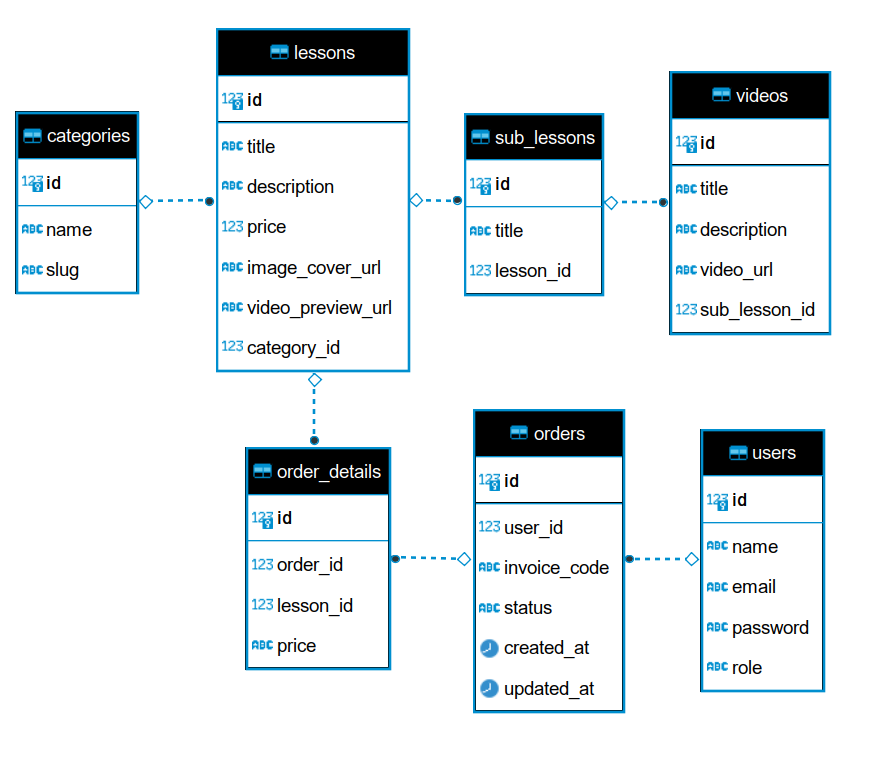
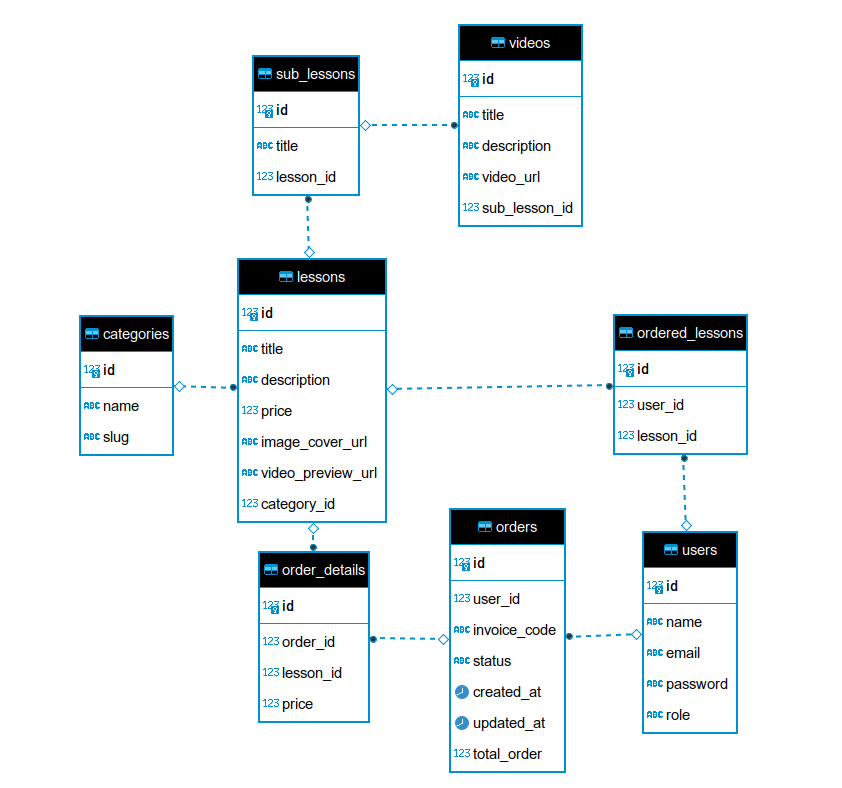
My Lesson + My Order

Changed region(s): [[0.0, 0.0301, 0.9572, 0.9922], [0.1235, 0.2405, 0.1853, 0.2706], [0.8646, 0.481, 0.8955, 0.5111]]

diff --git a/main.go b/main.go
@@ -14,6 +14,8 @@ import (
 var (
 	db *gorm.DB = config.SetupDatabaseConnection()
 
+	orderedLessonRepo repo.OrderedLessonRepository = repo.NewOrderedLessonRepo(db)
+
 	jwtService     service.JWTService        = service.NewJWTService()
 	userService    service.UserService       = service.NewUserService(userRepo)
 	authController controller.AuthController = controller.NewAuthController(authService, jwtService, userService)
@@ -27,7 +29,7 @@ var (
 	categoryController controller.CategoryController = controller.NewCategoryController(categoryService, jwtService)
 
 	lessonRepo       repo.LessonRepository       = repo.NewLessonRepo(db)
-	lessonService    service.LessonService       = service.NewLessonService(lessonRepo)
+	lessonService    service.LessonService       = service.NewLessonService(lessonRepo, orderedLessonRepo)
 	lessonController controller.LessonController = controller.NewLessonController(lessonService, jwtService)
 
 	subLessonRepo       repo.SubLessonRepository       = repo.NewSubLessonRepo(db)
@@ -40,7 +42,7 @@ var (
 
 	orderRepo       repo.OrderRepository       = repo.NewOrderRepo(db)
 	orderDetailRepo repo.OrderDetailRepository = repo.NewOrderDetailRepo(db)
-	orderService    service.OrderService       = service.NewOrderService(orderRepo, orderDetailRepo, lessonRepo)
+	orderService    service.OrderService       = service.NewOrderService(orderRepo, orderDetailRepo, orderedLessonRepo, lessonRepo)
 	orderController controller.OrderController = controller.NewOrderController(orderService, jwtService)
 )
 
@@ -53,6 +55,7 @@ func main() {
 		&entity.Video{},
 		&entity.Order{},
 		&entity.OrderDetail{},
+		&entity.OrderedLesson{},
 	)
 	defer config.CloseDatabaseConnection(db)
 	server := gin.Default()
@@ -84,6 +87,7 @@ func main() {
 		publicLessonRoutes.GET("/:id", lessonController.FindOneLessonByID)
 	}
 
+	server.GET("/api/my-lessons", middleware.AuthorizeJWT(jwtService, "user"), lessonController.MyLesson)
 	lessonRoutes := server.Group("api/lessons", middleware.AuthorizeJWT(jwtService, "admin"))
 	{
 		lessonRoutes.POST("/", lessonController.CreateLesson)
@@ -107,8 +111,9 @@ func main() {
 		videoRoutes.DELETE("/:id", videoController.DeleteVideo)
 	}
 
+	server.GET("/api/my-orders", middleware.AuthorizeJWT(jwtService, "user"), orderController.MyOrder)
 	server.POST("/api/orders", middleware.AuthorizeJWT(jwtService, "user"), orderController.CreateOrder)
-	server.GET("/api/orders/history", middleware.AuthorizeJWT(jwtService, "user"), orderController.HistoryOrder)
+	server.GET("/api/orders/:id", middleware.AuthorizeJWT(jwtService, "user", "admin"), orderController.FindOneOrderByID)
 	adminOrderRoutes := server.Group("api/orders", middleware.AuthorizeJWT(jwtService, "admin"))
 	{
 		adminOrderRoutes.GET("/", orderController.All)

diff --git a/service/order.service.go b/service/order.service.go
@@ -39,16 +39,18 @@ type OrderService interface {
 }
 
 type orderService struct {
-	orderRepo       repo.OrderRepository
-	orderDetailRepo repo.OrderDetailRepository
-	lessonRepo      repo.LessonRepository
+	orderRepo         repo.OrderRepository
+	orderDetailRepo   repo.OrderDetailRepository
+	orderedLessonRepo repo.OrderedLessonRepository
+	lessonRepo        repo.LessonRepository
 }
 
-func NewOrderService(orderRepo repo.OrderRepository, orderDetailRepo repo.OrderDetailRepository, lessonRepo repo.LessonRepository) OrderService {
+func NewOrderService(orderRepo repo.OrderRepository, orderDetailRepo repo.OrderDetailRepository, orderedLessonRepo repo.OrderedLessonRepository, lessonRepo repo.LessonRepository) OrderService {
 	return &orderService{
-		orderRepo:       orderRepo,
-		orderDetailRepo: orderDetailRepo,
-		lessonRepo:      lessonRepo,
+		orderRepo:         orderRepo,
+		orderDetailRepo:   orderDetailRepo,
+		orderedLessonRepo: orderedLessonRepo,
+		lessonRepo:        lessonRepo,
 	}
 }
 
@@ -130,12 +132,28 @@ func (c *orderService) FindOneOrderByID(orderID string) (*entity.Order, error) {
 
 func (c *orderService) UpdatePaidOrder(orderID string) (*entity.Order, error) {
 	order, err := c.orderRepo.FindOneOrderByID(orderID)
+	fmt.Println(order)
 	if err != nil {
 		return nil, err
 	}
 
 	if err != nil {
 		return nil, err
+	}
+
+	if order.Status == "paid" {
+		return &order, nil
+	}
+
+	for _, detail := range order.OrderDetails {
+		var orderedLesson entity.OrderedLesson
+		orderedLesson.LessonID = detail.LessonID
+		orderedLesson.UserID = order.UserID
+
+		c.orderedLessonRepo.InsertOrderedLesson(orderedLesson)
+		if err != nil {
+			return nil, err
+		}
 	}
 
 	order.Status = "paid"
@@ -158,6 +176,12 @@ func (c *orderService) UpdateUnpaidOrder(orderID string) (*entity.Order, error) 
 	if err != nil {
 		return nil, err
 	}
+
+	if order.Status == "unpaid" {
+		return &order, nil
+	}
+
+	c.orderedLessonRepo.DeleteOrderedLessonByUserID(strconv.Itoa(int(order.UserID)))
 
 	order.Status = "unpaid"
 

diff --git a/service/lesson.service.go b/service/lesson.service.go
@@ -12,6 +12,7 @@ import (
 
 type LessonService interface {
 	All() (*[]entity.Lesson, error)
+	MyLesson(userID string) (*[]entity.OrderedLesson, error)
 	CreateLesson(lessonRequest request.CreateLessonRequest) (*entity.Lesson, error)
 	UpdateLesson(updateLessonRequest request.UpdateLessonRequest) (*entity.Lesson, error)
 	FindOneLessonByID(lessonID string) (*entity.Lesson, error)
@@ -19,17 +20,28 @@ type LessonService interface {
 }
 
 type lessonService struct {
-	lessonRepo repo.LessonRepository
+	lessonRepo        repo.LessonRepository
+	orderedLessonRepo repo.OrderedLessonRepository
 }
 
-func NewLessonService(lessonRepo repo.LessonRepository) LessonService {
+func NewLessonService(lessonRepo repo.LessonRepository, orderedLessonRepo repo.OrderedLessonRepository) LessonService {
 	return &lessonService{
-		lessonRepo: lessonRepo,
+		lessonRepo:        lessonRepo,
+		orderedLessonRepo: orderedLessonRepo,
 	}
 }
 
 func (c *lessonService) All() (*[]entity.Lesson, error) {
 	lessons, err := c.lessonRepo.All()
+	if err != nil {
+		return nil, err
+	}
+
+	return &lessons, nil
+}
+
+func (c *lessonService) MyLesson(userID string) (*[]entity.OrderedLesson, error) {
+	lessons, err := c.orderedLessonRepo.FindOrderedLessonByUserID(userID)
 	if err != nil {
 		return nil, err
 	}

diff --git a/repo/ordered_lesson.repo.go b/repo/ordered_lesson.repo.go
@@ -1,0 +1,40 @@
+package repo
+
+import (
+	"github.com/rizkypujiraharja/Video-Course-API-Golang/entity"
+	"gorm.io/gorm"
+)
+
+type OrderedLessonRepository interface {
+	InsertOrderedLesson(orderedLesson entity.OrderedLesson) (entity.OrderedLesson, error)
+	FindOrderedLessonByUserID(userID string) ([]entity.OrderedLesson, error)
+	DeleteOrderedLessonByUserID(userID string) error
+}
+
+type orderedLessonRepo struct {
+	connection *gorm.DB
+}
+
+func NewOrderedLessonRepo(connection *gorm.DB) OrderedLessonRepository {
+	return &orderedLessonRepo{
+		connection: connection,
+	}
+}
+
+func (c *orderedLessonRepo) InsertOrderedLesson(orderedLesson entity.OrderedLesson) (entity.OrderedLesson, error) {
+	c.connection.Save(&orderedLesson)
+	c.connection.Find(&orderedLesson)
+	return orderedLesson, nil
+}
+
+func (c *orderedLessonRepo) FindOrderedLessonByUserID(userID string) ([]entity.OrderedLesson, error) {
+	orderedLessons := []entity.OrderedLesson{}
+	c.connection.Preload("Lesson.Category").Where("user_id = ?", userID).Find(&orderedLessons)
+	return orderedLessons, nil
+}
+
+func (c *orderedLessonRepo) DeleteOrderedLessonByUserID(userID string) error {
+	orderedLessons := entity.OrderedLesson{}
+	c.connection.Where("user_id = ?", userID).Delete(&orderedLessons)
+	return nil
+}

diff --git a/controller/order.controller.go b/controller/order.controller.go
@@ -13,7 +13,7 @@ import (
 
 type OrderController interface {
 	All(ctx *gin.Context)
-	HistoryOrder(ctx *gin.Context)
+	MyOrder(ctx *gin.Context)
 	CreateOrder(ctx *gin.Context)
 	FindOneOrderByID(ctx *gin.Context)
 	UpdatePaidOrder(ctx *gin.Context)
@@ -45,7 +45,7 @@ func (c *orderController) All(ctx *gin.Context) {
 	ctx.JSON(http.StatusOK, response)
 }
 
-func (c *orderController) HistoryOrder(ctx *gin.Context) {
+func (c *orderController) MyOrder(ctx *gin.Context) {
 	userId := c.jwtService.GetUserId(ctx)
 
 	orders, err := c.orderService.FindOrderByUserID(userId)
@@ -85,12 +85,14 @@ func (c *orderController) CreateOrder(ctx *gin.Context) {
 func (c *orderController) FindOneOrderByID(ctx *gin.Context) {
 	id := ctx.Param("id")
 
-	res, err := c.orderService.FindOneOrderByID(id)
+	order, err := c.orderService.FindOneOrderByID(id)
 	if err != nil {
 		response := response.BuildErrorResponse("Failed to process request", err.Error(), obj.EmptyObj{})
 		ctx.AbortWithStatusJSON(http.StatusBadRequest, response)
 		return
 	}
+
+	res := resource.NewOrderResponse(*order)
 
 	response := response.BuildResponse(true, "OK!", res)
 	ctx.JSON(http.StatusOK, response)

diff --git a/controller/lesson.controller.go b/controller/lesson.controller.go
@@ -14,6 +14,7 @@ import (
 
 type LessonController interface {
 	All(ctx *gin.Context)
+	MyLesson(ctx *gin.Context)
 	CreateLesson(ctx *gin.Context)
 	UpdateLesson(ctx *gin.Context)
 	DeleteLesson(ctx *gin.Context)
@@ -40,6 +41,20 @@ func (c *lessonController) All(ctx *gin.Context) {
 		return
 	}
 	res := resource.NewLessonArrayResponse(*lessons)
+	response := response.BuildResponse(true, "OK!", res)
+	ctx.JSON(http.StatusOK, response)
+}
+
+func (c *lessonController) MyLesson(ctx *gin.Context) {
+	userId := c.jwtService.GetUserId(ctx)
+
+	lessons, err := c.lessonService.MyLesson(userId)
+	if err != nil {
+		response := response.BuildErrorResponse("Failed to process request", err.Error(), obj.EmptyObj{})
+		ctx.AbortWithStatusJSON(http.StatusBadRequest, response)
+		return
+	}
+	res := resource.NewLessonFromOrderedLessonArrayResponse(*lessons)
 	response := response.BuildResponse(true, "OK!", res)
 	ctx.JSON(http.StatusOK, response)
 }

diff --git a/resource/lesson.resource.go b/resource/lesson.resource.go
@@ -44,3 +44,20 @@ func NewLessonArrayResponse(lessons []entity.Lesson) []LessonResponse {
 	}
 	return lessonRes
 }
+
+func NewLessonFromOrderedLessonArrayResponse(orderedLessons []entity.OrderedLesson) []LessonResponse {
+	lessonRes := []LessonResponse{}
+	for _, v := range orderedLessons {
+		p := LessonResponse{
+			ID:              v.Lesson.ID,
+			LessonTitle:     v.Lesson.Title,
+			Description:     v.Lesson.Description,
+			Price:           v.Lesson.Price,
+			ImageCoverUrl:   v.Lesson.ImageCoverUrl,
+			VideoPreviewUrl: v.Lesson.VideoPreviewUrl,
+			Category:        NewCategoryResponse(v.Lesson.Category),
+		}
+		lessonRes = append(lessonRes, p)
+	}
+	return lessonRes
+}

diff --git a/entity/ordered_lesson.entity.go b/entity/ordered_lesson.entity.go
@@ -1,10 +1,9 @@
 package entity
 
-type OrderDetail struct {
+type OrderedLesson struct {
 	ID       int64  `gorm:"primary_key:auto_increment" json:"-"`
-	OrderID  int64  `gorm:"not null" json:"-"`
+	UserID   int64  `gorm:"not null" json:"-"`
 	LessonID int64  `gorm:"not null" json:"-"`
-	Price    int64  `gorm:"type:bigint" json:"-"`
-	Order    Order  `gorm:"foreignkey:OrderID;constraint:onUpdate:CASCADE,onDelete:CASCADE" json:"-"`
 	Lesson   Lesson `gorm:"foreignkey:LessonID;constraint:onUpdate:CASCADE,onDelete:CASCADE" json:"-"`
+	User     User   `gorm:"foreignkey:UserID;constraint:onUpdate:CASCADE,onDelete:CASCADE" json:"-"`
 }

diff --git a/repo/order.repo.go b/repo/order.repo.go
@@ -1,6 +1,8 @@
 package repo
 
 import (
+	"fmt"
+
 	"github.com/rizkypujiraharja/Video-Course-API-Golang/entity"
 	"gorm.io/gorm"
 )
@@ -50,6 +52,7 @@ func (c *orderRepo) UpdateOrder(order entity.Order) (entity.Order, error) {
 func (c *orderRepo) FindOneOrderByID(orderID string) (entity.Order, error) {
 	var order entity.Order
 	res := c.connection.Preload("User").Preload("OrderDetails.Lesson.Category").Where("id = ?", orderID).Take(&order)
+	fmt.Println(res, order)
 	if res.Error != nil {
 		return order, res.Error
 	}
